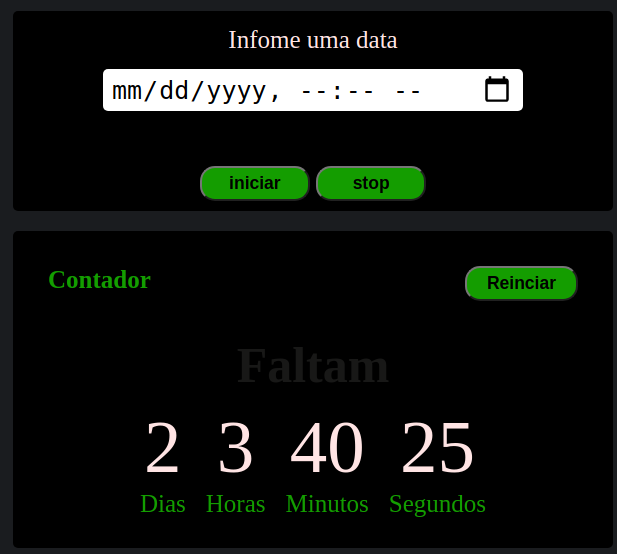
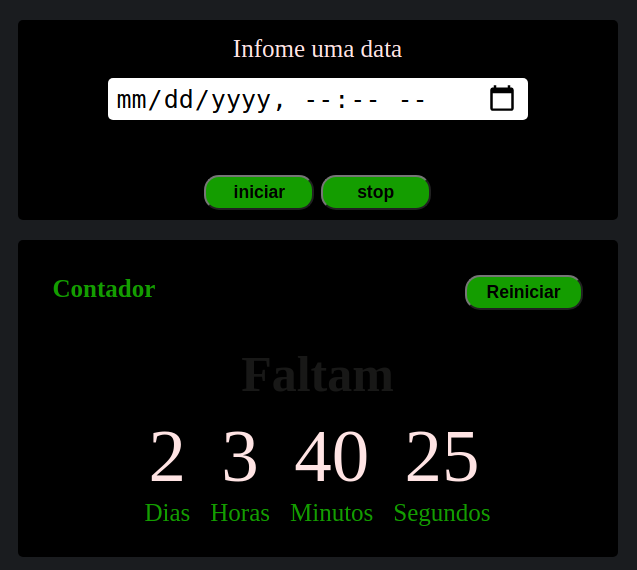
correção

diff --git a/index.html b/index.html
@@ -24,7 +24,7 @@
             <article class="cron">
                 <div class="title">
                     <p>Contador</p>
-                    <button id="beta">Reinciar</button>
+                    <button id="beta">Reiniciar</button>
                 </div>
                 <h2 class="faltam">Faltam</h2>
                 <div class="time">
